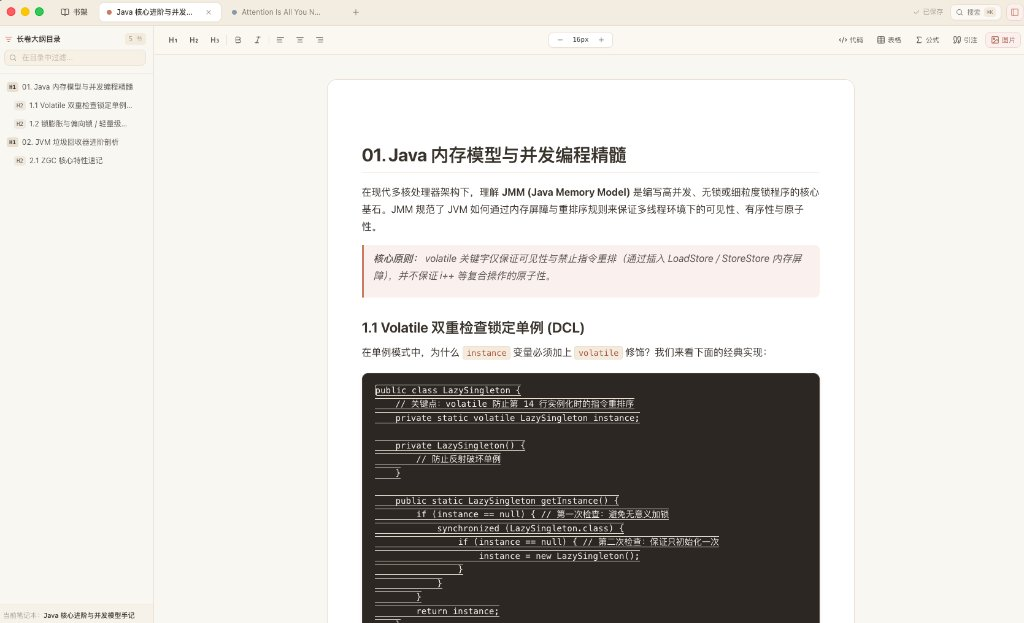
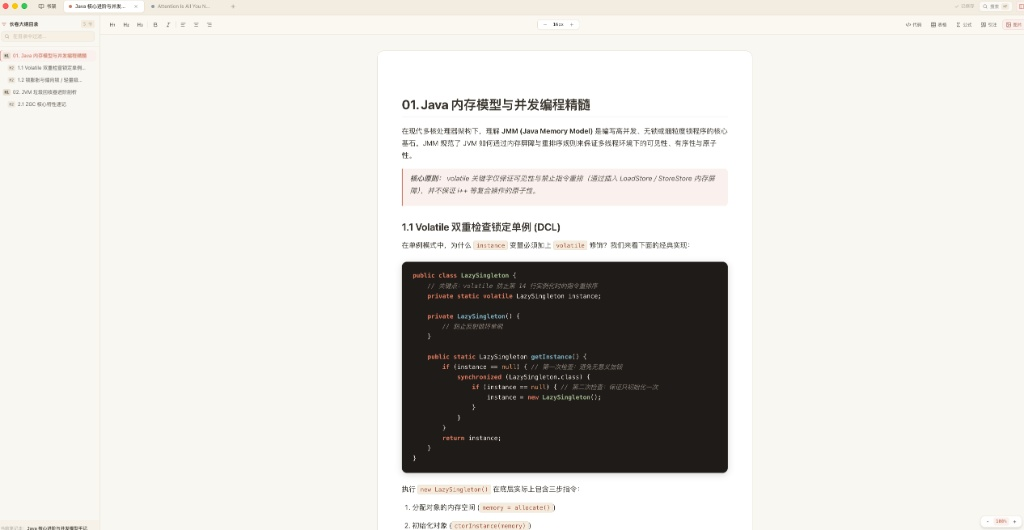
feat: replace code block screenshot in README and refine trackpad pinch-to-zoom for true stepless 120Hz continuous scaling

diff --git a/src/components/editor/EditorView.tsx b/src/components/editor/EditorView.tsx
@@ -41,6 +41,9 @@ export const EditorView: React.FC<EditorViewProps> = ({ notebookId }) => {
   } | null>(null);
 
   const editorContainerRef = useRef<HTMLDivElement>(null);
+  const paperCardRef = useRef<HTMLDivElement>(null);
+  const zoomRef = useRef<number>(notebook?.zoomLevel || 1.0);
+  const rafIdRef = useRef<number | null>(null);
 
   // Extract headings from editor HTML or DOM
   const updateOutline = useCallback((editorInstance: any) => {
@@ -93,7 +96,7 @@ export const EditorView: React.FC<EditorViewProps> = ({ notebookId }) => {
     },
     editorProps: {
       attributes: {
-        class: 'focus:outline-none max-w-none transition-all',
+        class: 'focus:outline-none max-w-none',
       },
       handlePaste: (_view, event) => {
         const clipboard = event.clipboardData;
@@ -176,44 +179,48 @@ export const EditorView: React.FC<EditorViewProps> = ({ notebookId }) => {
     }
   }, [notebookId, editor, notebook, updateOutline]);
 
-  // Handle Trackpad Two-Finger Pinch-to-Zoom (macOS wheel with ctrlKey or gesture events)
+  // Sync zoomRef and DOM when zoomLevel state changes (e.g. from buttons or initial load)
+  useEffect(() => {
+    zoomRef.current = zoomLevel;
+    if (paperCardRef.current) {
+      paperCardRef.current.style.zoom = String(zoomLevel);
+    }
+  }, [zoomLevel]);
+
+  // Handle Trackpad Two-Finger Pinch-to-Zoom with smooth 120Hz continuous response
   useEffect(() => {
     const handleWheel = (e: WheelEvent) => {
       // macOS trackpad pinch emits wheel event with ctrlKey = true
       if (e.ctrlKey) {
         e.preventDefault();
-        // Negative deltaY is pinch out (zoom in), positive deltaY is pinch in (zoom out)
-        const zoomDelta = -e.deltaY * 0.005;
-        setZoomLevel((prev) => {
-          const next = Math.round(Math.min(2.5, Math.max(0.6, prev + zoomDelta)) * 100) / 100;
-          return next;
-        });
-      }
-    };
 
-    const handleGestureStart = (e: Event) => {
-      e.preventDefault();
-    };
+        // Continuous stepless exponential scaling
+        // e.deltaY is typically -1 to -8 (zoom in) or 1 to 8 (zoom out)
+        const scaleFactor = Math.pow(0.9985, e.deltaY);
+        const nextZoom = Math.min(2.5, Math.max(0.6, zoomRef.current * scaleFactor));
+        zoomRef.current = nextZoom;
 
-    const handleGestureChange = (e: any) => {
-      e.preventDefault();
-      if (e.scale) {
-        setZoomLevel((prev) => {
-          const factor = e.scale > 1 ? 1.02 : 0.98;
-          const next = Math.round(Math.min(2.5, Math.max(0.6, prev * factor)) * 100) / 100;
-          return next;
-        });
+        // Apply immediately to DOM for direct hardware responsiveness without transition delay
+        if (paperCardRef.current) {
+          paperCardRef.current.style.zoom = String(nextZoom);
+        }
+
+        // Batch React state update to animation frame so UI percentage indicator syncs smoothly
+        if (rafIdRef.current === null) {
+          rafIdRef.current = requestAnimationFrame(() => {
+            setZoomLevel(Math.round(zoomRef.current * 100) / 100);
+            rafIdRef.current = null;
+          });
+        }
       }
     };
 
     window.addEventListener('wheel', handleWheel, { passive: false });
-    window.addEventListener('gesturestart', handleGestureStart, { passive: false });
-    window.addEventListener('gesturechange', handleGestureChange, { passive: false });
-
     return () => {
       window.removeEventListener('wheel', handleWheel);
-      window.removeEventListener('gesturestart', handleGestureStart);
-      window.removeEventListener('gesturechange', handleGestureChange);
+      if (rafIdRef.current !== null) {
+        cancelAnimationFrame(rafIdRef.current);
+      }
     };
   }, []);
 
@@ -374,10 +381,12 @@ export const EditorView: React.FC<EditorViewProps> = ({ notebookId }) => {
         >
           {/* Centered Parchment Paper Document Layout */}
           <div
-            className="max-w-[860px] mx-auto min-h-[85vh] bg-white rounded-2xl p-8 sm:p-14 border border-[#E8DFD1] shadow-2xs transition-all duration-75 origin-top"
+            ref={paperCardRef}
+            className="max-w-[860px] mx-auto min-h-[85vh] bg-white rounded-2xl p-8 sm:p-14 border border-[#E8DFD1] shadow-2xs origin-top"
             style={{
               fontSize: `${fontSize}px`,
               zoom: zoomLevel,
+              transition: 'none',
             }}
           >
             {/* Bubble Menu for text selection */}

diff --git a/README.md b/README.md
@@ -66,7 +66,7 @@
 单篇无限延展的长卷设计，左侧目录与阅读位置实时双向高亮跟随，智能语法高亮代码块让技术笔记清晰有条理：
 
 <div align="center">
-  <img src="./docs/images/qnote-editor-code.jpg" alt="QNote 长卷编辑器与代码块" width="90%" />
+  <img src="./docs/images/qnote-editor-code.png" alt="QNote 长卷编辑器与代码块" width="90%" />
 </div>
 
 ---
